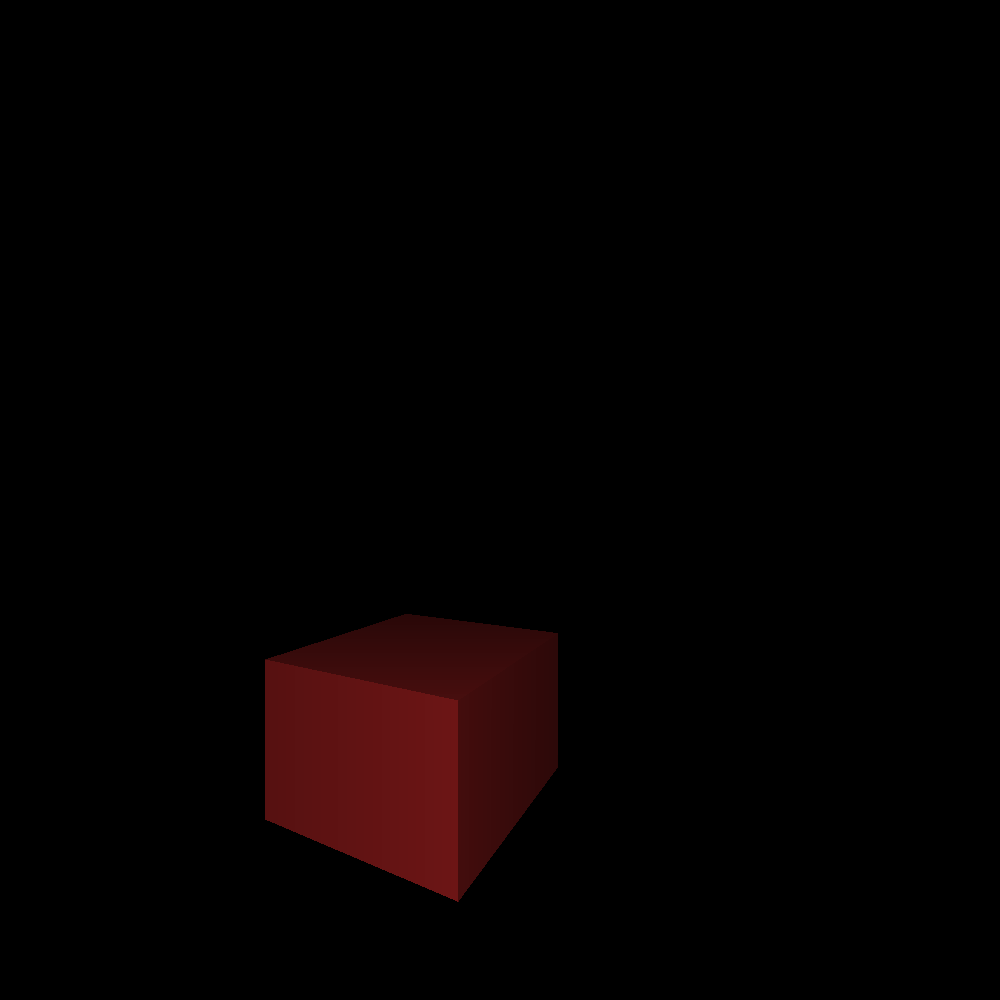
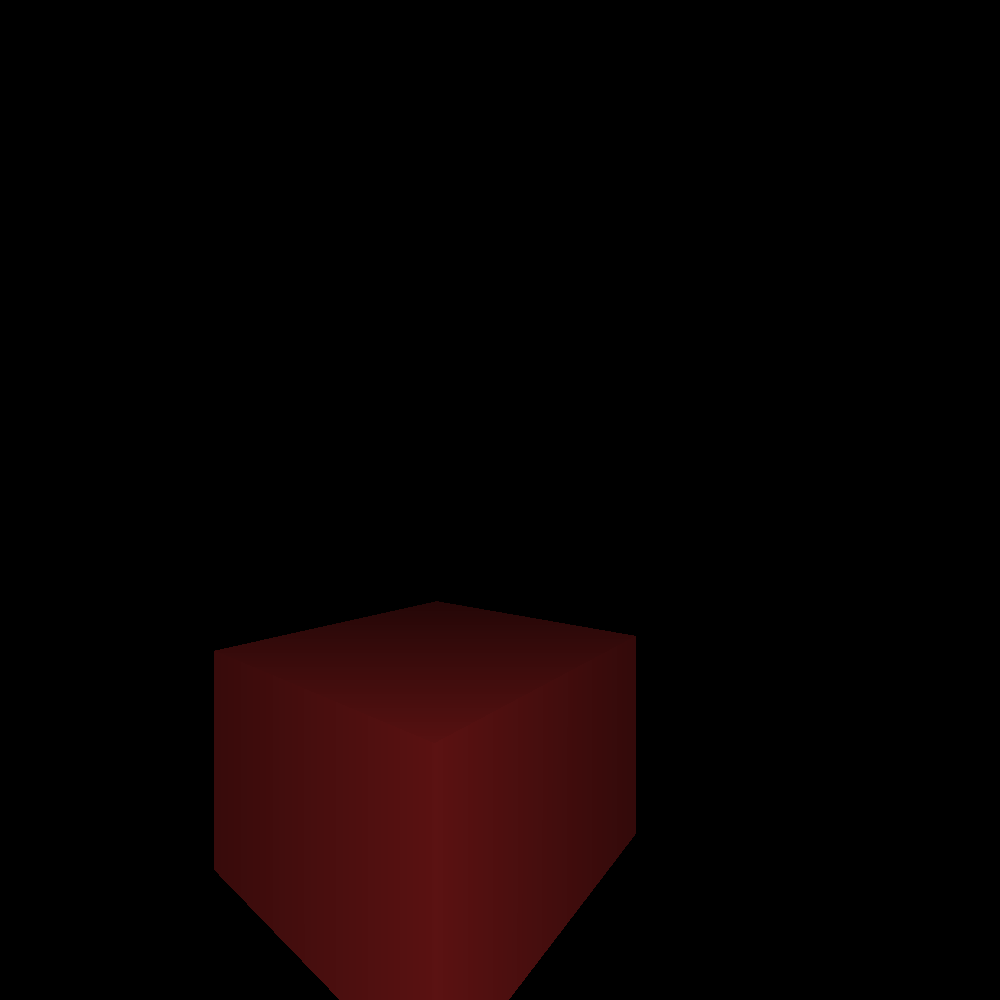
Temp, bg appearing

Changed region(s): [[0.217, 0.589, 0.651, 1.0]]

diff --git a/dev/src/window/window.c b/dev/src/window/window.c
@@ -18,6 +18,7 @@ int setup_window(app_params* params){
     Uint32* pixels;
     int pitch;
     SDL_LockTexture(params->texture, NULL, (void**)&pixels, &pitch);
+
     params->rcp = init_raycast_params(params->wd, params->width, params->height, params->cam, pixels);
     return 0;
 }
@@ -36,9 +37,11 @@ int launch_screen(app_params* params){
     int fps = 0;
     // float angle = 0;
     // float ro = 5;
+    SDL_Texture* texture = SDL_CreateTextureFromSurface(params->renderer, params->wd->skybox);
+    SDL_Rect srcRect = { 0, 0, params->wd->skybox->w, params->wd->skybox->h };
+    SDL_Rect dstRect = { 0, 0, params->width, params->height };
     while (!quit)
     {
-
         //quit = 1;
         // params->cam->pos[0] = ro*cos(angle);
         // params->cam->pos[2] = ro*sin(angle);
@@ -47,8 +50,11 @@ int launch_screen(app_params* params){
         // if(angle > 2*M_PI){
         //     angle -= 2*M_PI;
         // }
+        
         render_screen(params->rcp);
         SDL_UnlockTexture(params->texture);
+        SDL_RenderCopy(params->renderer, texture, &srcRect, &dstRect);
+        SDL_SetTextureBlendMode(params->texture, SDL_BLENDMODE_BLEND);
         SDL_RenderCopy(params->renderer, params->texture, NULL, NULL); 
         SDL_RenderPresent(params->renderer);
         fps++;

diff --git a/dev/src/window/renderer.c b/dev/src/window/renderer.c
@@ -11,7 +11,7 @@ void render_screen(raycast_params* rcp)
     int width = rcp->width;
     int height = rcp->height;
     SDL_PixelFormat* format = rcp->format;
-
+        
     update_cam_sides(rcp);
     
     int* pixels_rasterize = calloc(sizeof(int)*width*height, 1);
@@ -21,9 +21,10 @@ void render_screen(raycast_params* rcp)
     for(int i = 0; i < width*height; i++){
         if(!pixels_rasterize[i])
             continue;
-        
+        pixels[i] = SDL_MapRGBA(format, 0, 255, 0, 255);
         ray r = create_ray_interpolate(rcp, i%width, i/width);
         ray_cast(&r, rcp->w, rcp->reflection, rcp->shadow);
+        pixels[i] = SDL_MapRGBA(format, 0, 255, 0, 255);
         if(r.last_hit != NULL){
             pixels[i] = SDL_MapRGBA(format, r.last_hit->color[0]*255, r.last_hit->color[1]*255, r.last_hit->color[2]*255, 255);
             free(r.last_hit);

diff --git a/dev/src/main.c b/dev/src/main.c
@@ -33,7 +33,7 @@ int main(){
         return 1;
 
     printf("WORDL OBJ COUNT: %d \n", wd->size_meshes);
-    //load_skybox(wd, "assets/textures/Sky.jpg");
+    load_skybox(wd, "assets/textures/Sky.jpg");
     launch_screen(&params);
     free_window(&params);
     free_world(wd);
